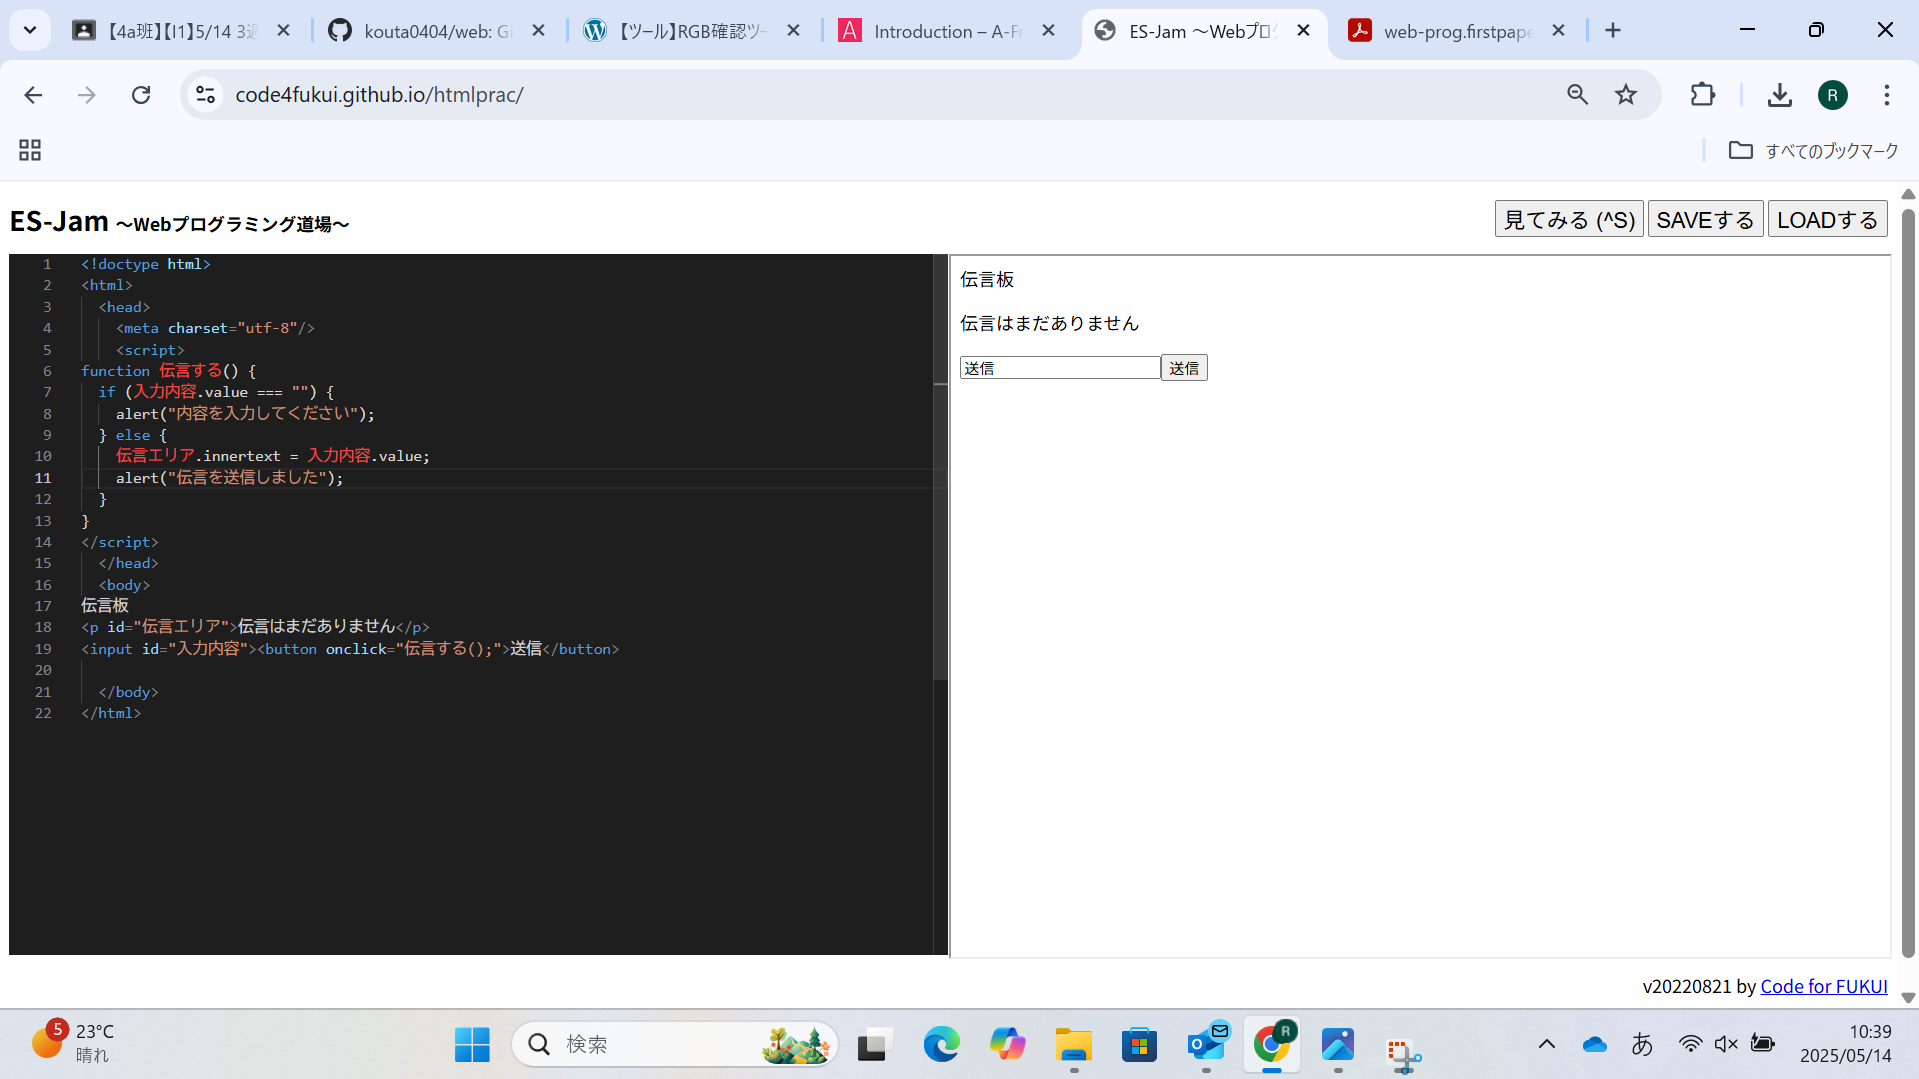
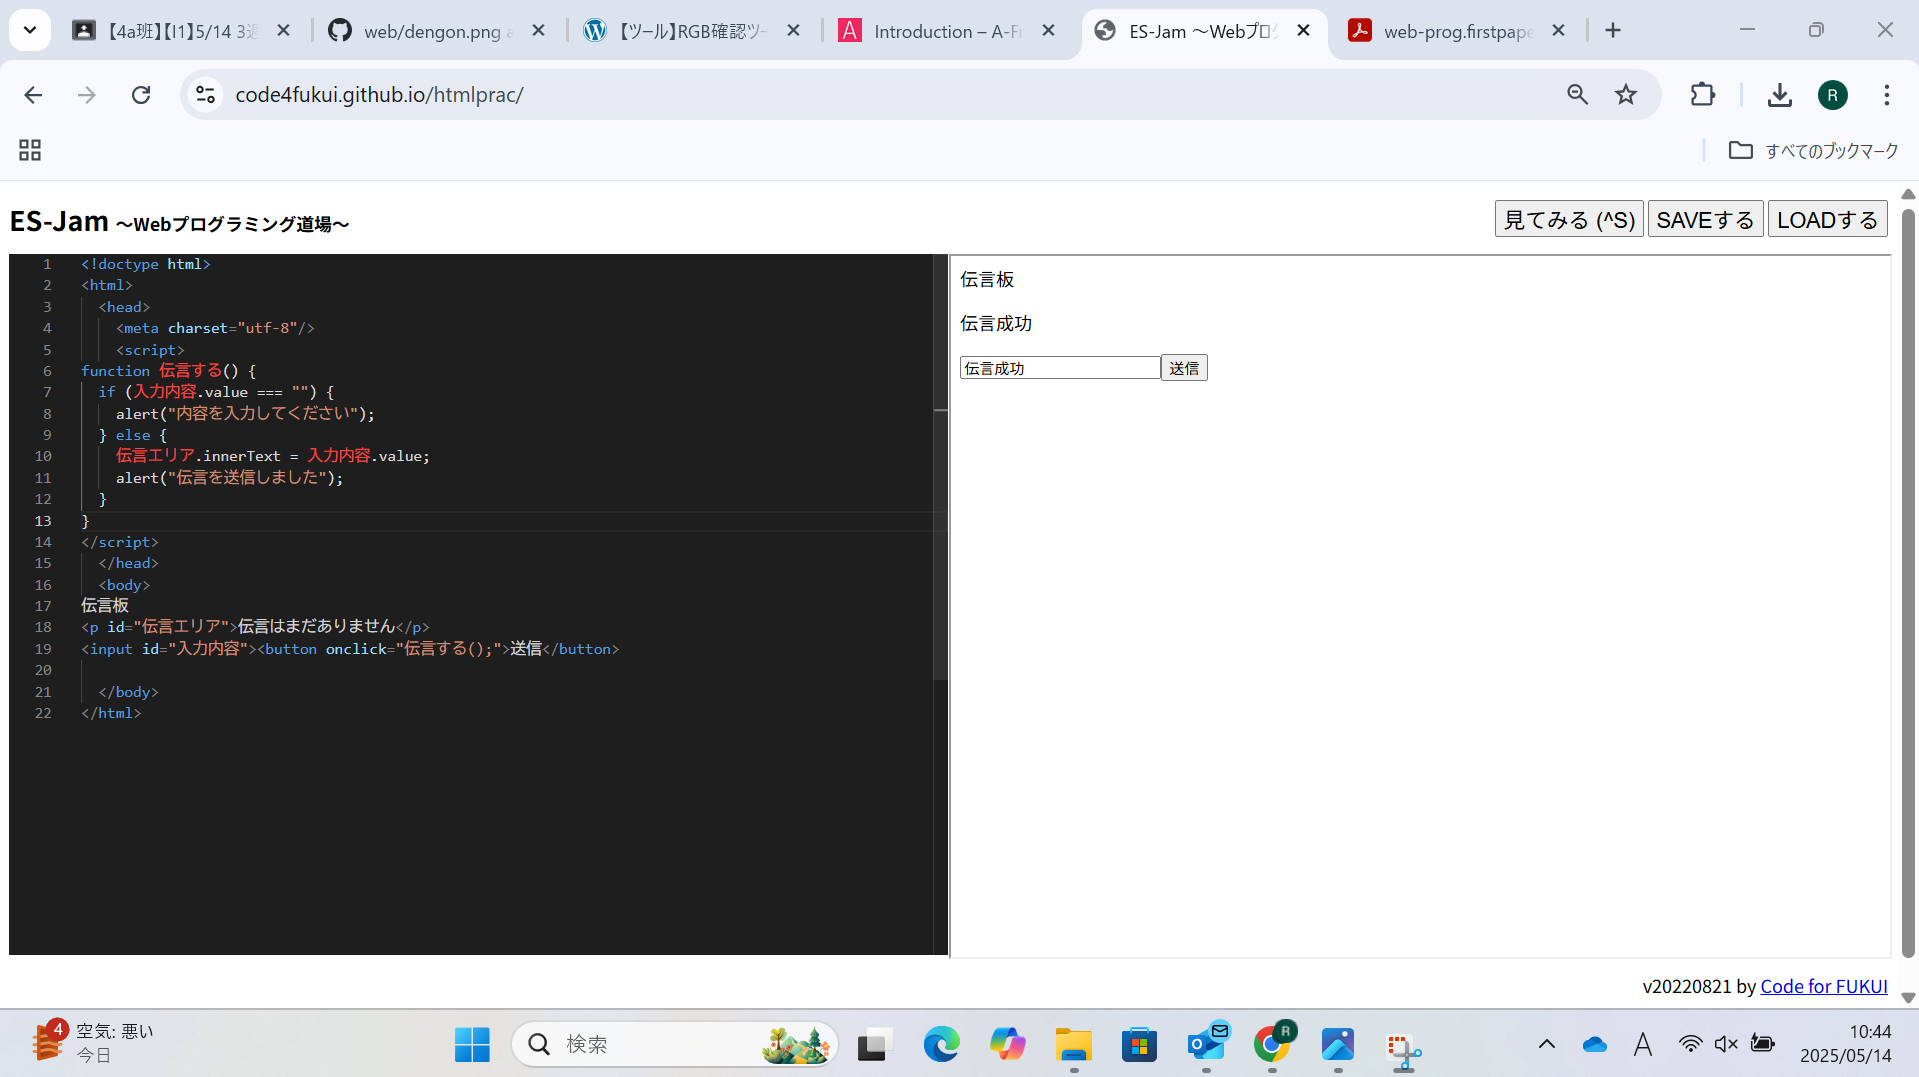
Add files via upload

diff --git a/dengon.html b/dengon.html
@@ -7,7 +7,7 @@ function 伝言する() {
   if (入力内容.value === "") {
     alert("内容を入力してください");
   } else {
-    伝言エリア.innertext = 入力内容.value;
+    伝言エリア.innerText = 入力内容.value;
     alert("伝言を送信しました");
   }
 }
